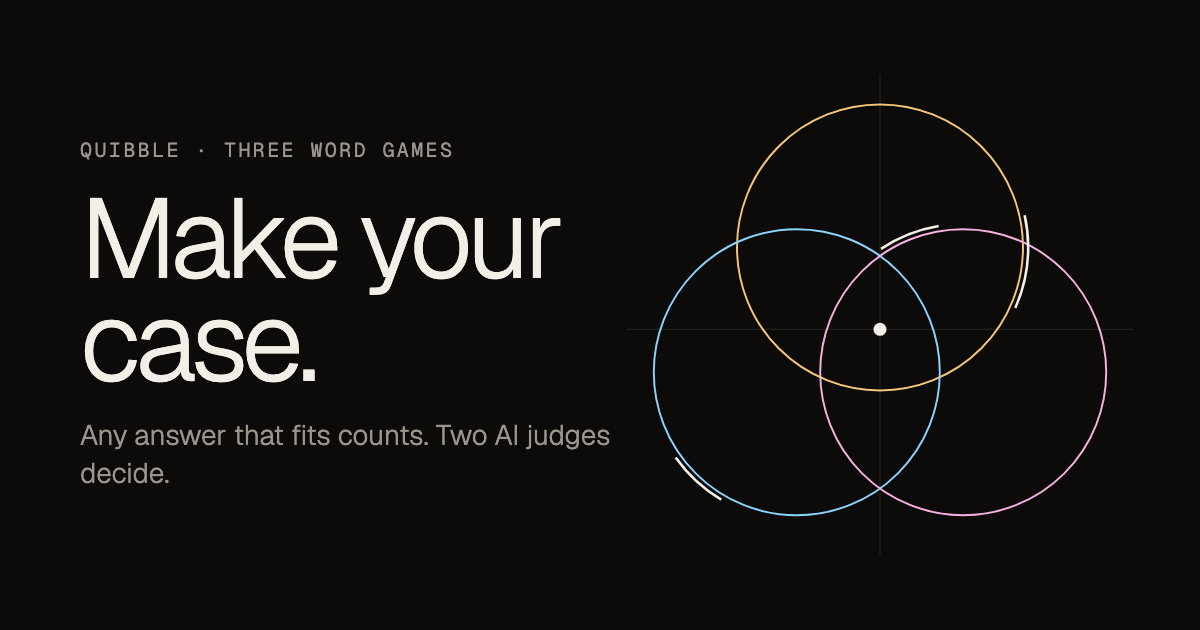
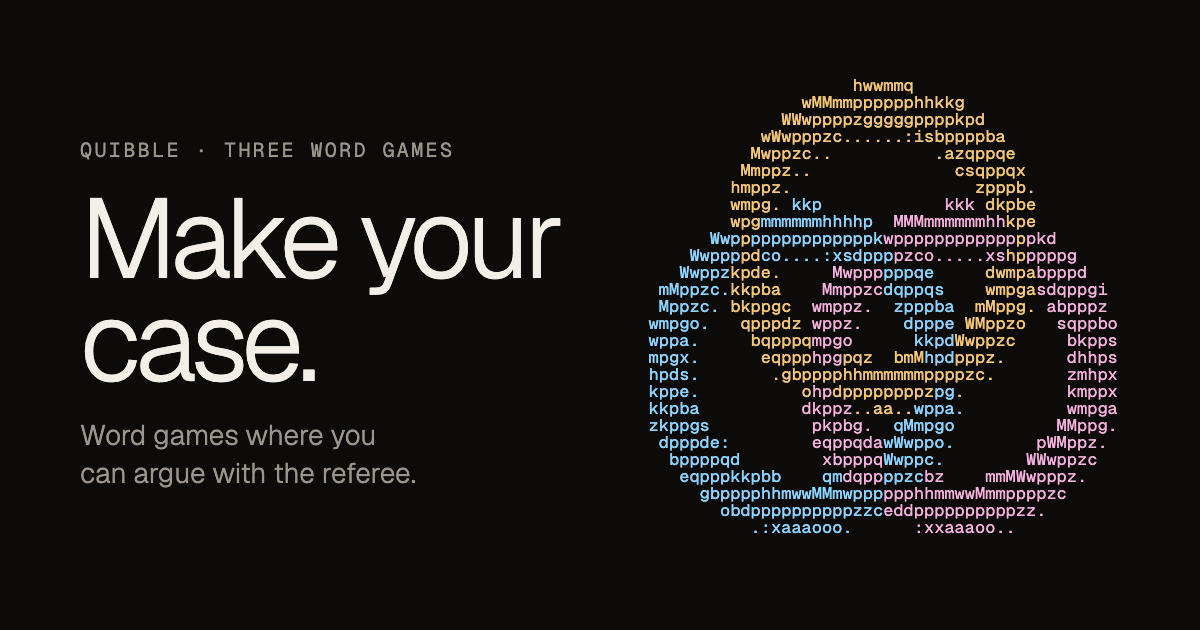
feat(seo): refresh the share image, add JSON-LD and llms.txt (#108)
The share image now shows Home's ring mark in characters, at its still frame, beside "Make your case." and the About lede; its URL carries ?v=2 so platforms that cache previews by URL fetch it again, and its alt text matches. Home and About carry schema.org JSON-LD built from the app's copy (WebSite, the game with its three games, its author, and the About page). The build emits /llms.txt, a short guide for AI tools from the copy, the puzzle index and the published answer-key results. The sitemap stays without lastmod, since no page has a reliable change date.

Changed region(s): [[0.0617, 0.1206, 0.925, 0.8444]]

diff --git a/scripts/vite-plugins.ts b/scripts/vite-plugins.ts
@@ -2,14 +2,18 @@ import { readFileSync } from 'node:fs'
 import { fileURLToPath, URL } from 'node:url'
 import { gzipSync } from 'node:zlib'
 import type { Plugin, Rolldown } from 'vite'
-import { gameIds } from '../shared/games/index.ts'
+import { gameIds, type GameId } from '../shared/games/index.ts'
+import { evalResultsSchema } from '../shared/schemas/eval-results.ts'
 import { puzzleIndexSchema } from '../shared/schemas/puzzle.ts'
 import { SITE_ORIGIN } from '../shared/site.ts'
 import { libraryPath, puzzlePath } from '../src/lib/paths.ts'
 import { en, format, puzzleNumber } from '../src/copy/en.ts'
+import { llmsTxt } from './llms-txt.ts'
+import { aboutStructuredData, homeStructuredData, jsonLdTag } from './structured-data.ts'
 
-// Build plugins for vite.config.ts: the on-device judge's runtime, the sitemap, and
-// one HTML page per route. Each runs in the client build only unless noted.
+// Build plugins for vite.config.ts: the on-device judge's runtime, the sitemap,
+// llms.txt, and one HTML page per route. Each runs in the client build only unless
+// noted.
 
 const fromRoot = (path: string) => fileURLToPath(new URL(`../${path}`, import.meta.url))
 
@@ -53,6 +57,22 @@ export function dropRawOrtRuntime(): Plugin {
   }
 }
 
+// For AI tools (llmstxt.org): what the site is, from the puzzle index and the
+// published answer-key results.
+export function llms(): Plugin {
+  return {
+    name: 'quibble:llms-txt',
+    applyToEnvironment: (environment) => environment.name === 'client',
+    generateBundle() {
+      const counts = Object.fromEntries(
+        gameIds.map((game) => [game, puzzles().filter((puzzle) => puzzle.game === game).length]),
+      ) as Record<GameId, number>
+      const results = evalResultsSchema.parse(JSON.parse(readFileSync(fromRoot('public/eval/results.json'), 'utf8')))
+      this.emitFile({ type: 'asset', fileName: 'llms.txt', source: llmsTxt(counts, results) })
+    },
+  }
+}
+
 // For search engines (robots.txt points here): Home, the Library and every puzzle,
 // listed from the built puzzle index.
 export function sitemap(): Plugin {
@@ -85,6 +105,7 @@ interface RoutePage {
   data?: string
   title: string
   description: string
+  structuredData?: unknown
 }
 
 const escapeHtml = (text: string) =>
@@ -109,6 +130,7 @@ function routePageList(): RoutePage[] {
       scene: 'src/scenes/about/AboutScene.tsx',
       title: en['meta.title.about'],
       description: en['meta.description.about'],
+      structuredData: aboutStructuredData(),
     },
     ...puzzles().map(({ game, n, path }) => {
       const values = { game: en[`game.name.${game}`], n: puzzleNumber(n), tagline: en[`game.tagline.${game}`] }
@@ -150,7 +172,10 @@ export function routePages(): Plugin {
         .map((name) => link(`rel="preload" href="/${name}" as="font" type="font/woff2" crossorigin`))
         .join('')
       const base = String(html.source).replace(/ *<\/head>/u, `${fonts}  </head>`)
-      html.source = base.replace(/ *<\/head>/u, `${link(`rel="canonical" href="${SITE_ORIGIN}/"`)}  </head>`)
+      html.source = base.replace(
+        / *<\/head>/u,
+        `${link(`rel="canonical" href="${SITE_ORIGIN}/"`)}${jsonLdTag(homeStructuredData())}  </head>`,
+      )
       this.emitFile({ type: 'asset', fileName: '404.html', source: base })
 
       for (const page of routePageList()) {
@@ -163,6 +188,7 @@ export function routePages(): Plugin {
           ...css.map((name) => link(`rel="stylesheet" crossorigin href="/${name}"`)),
           ...files.map((name) => link(`rel="modulepreload" crossorigin href="/${name}"`)),
           page.data ? link(`rel="preload" href="${page.data}" as="fetch" crossorigin`) : '',
+          page.structuredData ? jsonLdTag(page.structuredData) : '',
         ].join('')
         const source = base
           .replace(/<title>[^<]*<\/title>/u, `<title>${escapeHtml(page.title)}</title>`)

diff --git a/scripts/social-image.ts b/scripts/social-image.ts
@@ -1,8 +1,12 @@
 // Renders the share image (public/og.png, 1200 × 630) and the favicon
-// (public/favicon.svg) from the ring mark (5.1, 5.3: one mark everywhere).
+// (public/favicon.svg) from the ring mark (5.1, 5.3: one mark everywhere). The share
+// image shows the mark as Home does, in characters at its still frame, beside Home's
+// headline; the favicon keeps the drawn rings, which read at 16px.
 // Usage: npm run ts -- scripts/social-image.ts
 import { readFileSync, writeFileSync } from 'node:fs'
 import { chromium } from '@playwright/test'
+import { asciiMarkFrame, LAYERS } from '../src/components/AsciiMark/frame.ts'
+import { en } from '../src/copy/en.ts'
 
 const font = (path: string) =>
   `data:font/woff2;base64,${readFileSync(`node_modules/@fontsource/${path}`).toString('base64')}`
@@ -21,13 +25,11 @@ const rings = (width: number) => `
   <circle cx="0" cy="-52" r="110" fill="none" stroke="${colors.oddly}" stroke-width="${String(width)}"/>
   <circle cx="-64" cy="44" r="110" fill="none" stroke="${colors.escape}" stroke-width="${String(width)}"/>
   <circle cx="64" cy="44" r="110" fill="none" stroke="${colors.agent}" stroke-width="${String(width)}"/>`
-const mark = `<svg viewBox="-200 -190 400 380" xmlns="http://www.w3.org/2000/svg">
-  <line x1="-195" y1="11" x2="195" y2="11" stroke="${colors.line}"/><line x1="0" y1="-185" x2="0" y2="185" stroke="${colors.line}"/>
-  ${rings(1.5)}
-  <circle cx="0" cy="-52" r="114" fill="none" stroke="${colors.text}" stroke-width="2" stroke-dasharray="48 643"/>
-  <circle cx="-64" cy="44" r="114" fill="none" stroke="${colors.text}" stroke-width="2" stroke-dasharray="48 643" stroke-dashoffset="-240"/>
-  <circle cx="64" cy="44" r="114" fill="none" stroke="${colors.text}" stroke-width="2" stroke-dasharray="48 643" stroke-dashoffset="-470"/>
-  <circle cx="0" cy="11" r="5" fill="${colors.text}"/></svg>`
+// The still frame, one stacked <pre> per ring in its game's colour.
+const ink: Record<(typeof LAYERS)[number], string> = { oddly: colors.oddly, escape: colors.escape, agent: colors.agent }
+const mark = `<div class="mark">${asciiMarkFrame(0)
+  .map((layer, i) => `<pre style="color: ${ink[LAYERS[i] ?? 'oddly']}">${layer}</pre>`)
+  .join('')}</div>`
 
 writeFileSync(
   'public/favicon.svg',
@@ -41,9 +43,10 @@ const html = `<!doctype html><html><head><style>
   .text { flex: 1; padding-left: 80px; }
   .eyebrow { font-family: 'Geist Mono'; font-size: 20px; letter-spacing: 0.12em; text-transform: uppercase; color: ${colors.muted}; }
   h1 { margin: 24px 0; font-size: 112px; font-weight: 300; line-height: 0.92; letter-spacing: -0.05em; }
-  p { margin: 0; font-size: 28px; color: ${colors.muted}; max-width: 560px; line-height: 1.35; }
-  svg { width: 520px; height: 494px; margin-right: 60px; }
-</style></head><body><div class="text"><div class="eyebrow">Quibble · three word games</div><h1>Make your case.</h1><p>Any answer that fits counts. Two AI judges decide.</p></div>${mark}</body></html>`
+  p { margin: 0; font-size: 28px; color: ${colors.muted}; max-width: 560px; line-height: 1.35; text-wrap: balance; }
+  .mark { display: grid; margin-right: 72px; font-family: 'Geist Mono'; font-size: 17px; line-height: 1; }
+  .mark pre { grid-area: 1 / 1; margin: 0; font: inherit; white-space: pre; }
+</style></head><body><div class="text"><div class="eyebrow">${en['app.name']} · three word games</div><h1>${en['home.title']}</h1><p>${en['about.lede']}</p></div>${mark}</body></html>`
 
 const browser = await chromium.launch()
 const page = await browser.newPage({ viewport: { width: 1200, height: 630 } })

diff --git a/tests/unit/tooling/seo.test.ts b/tests/unit/tooling/seo.test.ts
@@ -1,0 +1,49 @@
+import { describe, expect, test } from 'vitest'
+import { readFileSync } from 'node:fs'
+import { gameIds } from '@shared/games'
+import { evalResultsSchema } from '@shared/schemas/eval-results'
+import { SITE_ORIGIN } from '@shared/site'
+import { llmsTxt } from '../../../scripts/llms-txt'
+import { aboutStructuredData, homeStructuredData, jsonLdTag } from '../../../scripts/structured-data'
+
+// The build's guides for search engines and AI tools: llms.txt and JSON-LD.
+
+const results = evalResultsSchema.parse(JSON.parse(readFileSync('public/eval/results.json', 'utf8')))
+const counts = { 'oddly-specific': 100, 'category-escape': 100, 'double-agent': 56 }
+
+describe('llms.txt', () => {
+  const text = llmsTxt(counts, results)
+
+  test('opens with the site name and summary, and links every game and page', () => {
+    expect(text.startsWith('# Quibble\n\n> Word games where you can argue with the referee.')).toBe(true)
+    for (const game of gameIds) expect(text).toContain(`${SITE_ORIGIN}/play?game=${game}`)
+    expect(text).toContain('56 puzzles.')
+    for (const path of ['/', '/play', '/about']) expect(text).toContain(`](${SITE_ORIGIN}${path})`)
+  })
+
+  test('states the published test results', () => {
+    expect(text).toContain(`same sealed test of ${String(results.test.cases)} guesses`)
+    expect(text).toContain(`Gemma 4 ${((results.test.judges['gemma-4']?.wholeGuess.value ?? 0) * 100).toFixed(1)}%`)
+    expect(text).toContain(`target of ${(results.target.wholeGuess * 100).toFixed(1)}%`)
+  })
+})
+
+describe('structured data', () => {
+  test('Home describes the site, the game with its three games, and its author, by shared ids', () => {
+    const graph = homeStructuredData()['@graph']
+    expect(graph.map((node) => node['@type'])).toEqual(['WebSite', 'VideoGame', 'Person'])
+    const game = graph[1] as { hasPart: { name: string }[]; isAccessibleForFree: boolean; '@id': string }
+    expect(game.hasPart.map(({ name }) => name)).toEqual(['Oddly Specific', 'Category Escape', 'Double Agent'])
+    expect(game.isAccessibleForFree).toBe(true)
+    const about = aboutStructuredData()['@graph'][0] as { '@type': string; about: { '@id': string }; url: string }
+    expect(about).toMatchObject({ '@type': 'AboutPage', url: `${SITE_ORIGIN}/about` })
+    expect(about.about['@id']).toBe(game['@id'])
+  })
+
+  test('is a JSON data block that no text inside can close', () => {
+    const tag = jsonLdTag({ name: '</script><b>' })
+    expect(tag).toContain('<script type="application/ld+json">')
+    expect(tag).not.toContain('</script><b>')
+    expect(JSON.parse(/>(.*)<\/script>/u.exec(tag)?.[1] ?? '')).toEqual({ name: '</script><b>' })
+  })
+})

diff --git a/scripts/llms-txt.ts b/scripts/llms-txt.ts
@@ -1,0 +1,50 @@
+import { gameIds, type GameId } from '../shared/games/index.ts'
+import type { EvalResults } from '../shared/schemas/eval-results.ts'
+import { SITE_ORIGIN } from '../shared/site.ts'
+import { libraryPath } from '../src/lib/paths.ts'
+import { en } from '../src/copy/en.ts'
+
+// /llms.txt (llmstxt.org): a short Markdown guide to the site for AI tools, built
+// from the app's copy, the puzzle index and the published answer-key results, so its
+// facts match the pages.
+
+const percent = (value: number | undefined) => `${((value ?? 0) * 100).toFixed(1)}%`
+
+export function llmsTxt(counts: Record<GameId, number>, results: EvalResults): string {
+  const { judges, cases } = results.test
+  const games = gameIds
+    .map(
+      (game) =>
+        `- [${en[`game.name.${game}`]}](${SITE_ORIGIN}${libraryPath(game)}): ${en[`game.tagline.${game}`]} ${String(counts[game])} puzzles.`,
+    )
+    .join('\n')
+  return `# ${en['app.name']}
+
+> ${en['about.lede']} Any answer that fits the rules counts: AI judges decide each guess, and players can overrule them.
+
+${en['app.name']} is three free web games by Ronald Balutiu: no accounts, no ads, nothing to install. Progress stays in the player's browser.
+
+## Games
+
+${games}
+
+## How judging works
+
+- Each guess is checked rule by rule. The cloud judge is Clef-flash by default, or Gemma 4, both on Cloudflare Workers AI.
+- An optional local judge, Qwen3.5-0.8B, runs in the player's browser on WebGPU and checks the same guess.
+- A player who thinks a judge got it wrong can choose "Count it anyway" and keep the try. With both judges on, the site keeps a private tally of where they split and which one the player overrules.
+
+## How the judges were tested
+
+- Before launch, every judge ruled on the same sealed test of ${String(cases)} guesses from all three games, each with a known right answer. It ran once, on the final setup, after tuning on a separate practice set.
+- Right calls on whole guesses: Gemma 4 ${percent(judges['gemma-4']?.wholeGuess.value)}, Clef-flash ${percent(judges['clef-flash']?.wholeGuess.value)}, Qwen3.5-0.8B ${percent(judges.device?.wholeGuess.value)}, against a target of ${percent(results.target.wholeGuess)}.
+- Every judge leans strict: each turned down good answers more often than it let wrong ones through.
+
+## Pages
+
+- [Home](${SITE_ORIGIN}/): the three games, how scoring works, and how the judges compare.
+- [Library](${SITE_ORIGIN}${libraryPath()}): every puzzle, easy to hard.
+- [About](${SITE_ORIGIN}/about): how to play, how the judges were tested, how the puzzles were made, and privacy.
+- [Source code](https://github.com/ronald-balutiu/Quibble)
+`
+}

diff --git a/scripts/structured-data.ts b/scripts/structured-data.ts
@@ -1,0 +1,82 @@
+import { gameIds } from '../shared/games/index.ts'
+import { SITE_ORIGIN } from '../shared/site.ts'
+import { libraryPath } from '../src/lib/paths.ts'
+import { en } from '../src/copy/en.ts'
+
+// schema.org JSON-LD for search engines and AI answers: on Home, the site, the game
+// (with its three games as parts) and its author; on About, the page about it. Built
+// from the app's copy, so it says what the pages say. One @graph per page, with ids
+// shared, so each page describes the same game and the same person.
+
+const id = (name: string) => `${SITE_ORIGIN}/#${name}`
+const author = {
+  '@type': 'Person',
+  '@id': id('author'),
+  name: 'Ronald Balutiu',
+  sameAs: ['https://github.com/ronald-balutiu'],
+}
+
+const game = {
+  '@type': 'VideoGame',
+  '@id': id('game'),
+  name: en['app.name'],
+  url: `${SITE_ORIGIN}/`,
+  description: `${en['about.lede']} ${en['welcome.lede']}`,
+  genre: ['Word game', 'Puzzle game'],
+  gamePlatform: 'Web browser',
+  applicationCategory: 'GameApplication',
+  operatingSystem: 'Any',
+  inLanguage: 'en',
+  isAccessibleForFree: true,
+  offers: { '@type': 'Offer', price: '0', priceCurrency: 'USD' },
+  author: { '@id': id('author') },
+  hasPart: gameIds.map((game) => ({
+    '@type': 'VideoGame',
+    name: en[`game.name.${game}`],
+    description: en[`game.tagline.${game}`],
+    url: `${SITE_ORIGIN}${libraryPath(game)}`,
+  })),
+}
+
+export function homeStructuredData() {
+  return {
+    '@context': 'https://schema.org',
+    '@graph': [
+      {
+        '@type': 'WebSite',
+        '@id': id('website'),
+        url: `${SITE_ORIGIN}/`,
+        name: en['app.name'],
+        description: en['meta.title.home'],
+        inLanguage: 'en',
+        author: { '@id': id('author') },
+      },
+      game,
+      author,
+    ],
+  }
+}
+
+export function aboutStructuredData() {
+  return {
+    '@context': 'https://schema.org',
+    '@graph': [
+      {
+        '@type': 'AboutPage',
+        url: `${SITE_ORIGIN}/about`,
+        name: en['about.title'],
+        description: en['meta.description.about'],
+        inLanguage: 'en',
+        isPartOf: { '@id': id('website') },
+        about: { '@id': id('game') },
+        author: { '@id': id('author') },
+      },
+      game,
+      author,
+    ],
+  }
+}
+
+// A data block, not a script: JSON with `<` escaped, so no text inside can close it.
+export const jsonLdTag = (data: unknown) =>
+  `    <script type="application/ld+json">${JSON.stringify(data).replace(/</gu, '\\u003c')}</script>\n`

diff --git a/index.html b/index.html
@@ -7,16 +7,17 @@
     <meta name="description" content="Quibble: three word games where any answer that fits counts. Name one thing that fits three conditions, stay in a category as the exits close, or find one word with two meanings. AI judges in the cloud and on your device decide." />
     <title>Quibble · Three word games judged by AI</title>
     <link rel="icon" href="/favicon.svg" type="image/svg+xml" />
-    <!-- Link previews (Phase 6); the image comes from scripts/social-image.ts. -->
+    <!-- Link previews (Phase 6); the image comes from scripts/social-image.ts. Bump
+         ?v when it changes, so platforms that cache previews by URL fetch it again. -->
     <meta property="og:type" content="website" />
     <meta property="og:site_name" content="Quibble" />
     <meta property="og:title" content="Quibble · Make your case." />
     <meta property="og:description" content="Three word games where any answer that fits counts. AI judges in the cloud and on your device decide, and you can overrule them." />
     <meta property="og:url" content="https://quibble.ronaldbalutiu.com/" />
-    <meta property="og:image" content="https://quibble.ronaldbalutiu.com/og.png" />
+    <meta property="og:image" content="https://quibble.ronaldbalutiu.com/og.png?v=2" />
     <meta property="og:image:width" content="1200" />
     <meta property="og:image:height" content="630" />
-    <meta property="og:image:alt" content="Make your case. Three intersecting rings in honey, sky and orchid." />
+    <meta property="og:image:alt" content="Make your case. Word games where you can argue with the referee, beside three overlapping rings drawn in letters in honey, sky and orchid." />
     <meta name="twitter:card" content="summary_large_image" />
   </head>
   <body>

diff --git a/vite.config.ts b/vite.config.ts
@@ -2,7 +2,7 @@ import { fileURLToPath, URL } from 'node:url'
 import { cloudflare } from '@cloudflare/vite-plugin'
 import react from '@vitejs/plugin-react'
 import { defineConfig } from 'vite'
-import { dropRawOrtRuntime, ortRuntime, routePages, sitemap } from './scripts/vite-plugins.ts'
+import { dropRawOrtRuntime, llms, ortRuntime, routePages, sitemap } from './scripts/vite-plugins.ts'
 
 export default defineConfig({
   // Browser tests mock every model call, so their preview server runs without remote
@@ -15,6 +15,7 @@ export default defineConfig({
     }),
     ortRuntime(),
     sitemap(),
+    llms(),
     routePages(),
   ],
   resolve: {

diff --git a/docs/architecture.md b/docs/architecture.md
@@ -328,7 +328,13 @@ legible-font audit; on Home it carries `mark.label` as an image.
 For search engines, `public/robots.txt` points to `/sitemap.xml`, also built from the
 puzzle index (Home, the Library, About and every puzzle). Scenes keep their title and
 canonical URL current during client navigation through `src/app/use-page-meta.ts`,
-and the not-found scene asks not to be indexed.
+and the not-found scene asks not to be indexed. Home and About carry schema.org
+JSON-LD (`scripts/structured-data.ts`): the site, the game with its three games, its
+author, and the About page, sharing ids. `/llms.txt` (`scripts/llms-txt.ts`) is a
+short Markdown guide for AI tools, built from the copy, the puzzle index and
+`public/eval/results.json`. The sitemap has no `lastmod`: no page has a reliable
+change date, and search engines ignore dates that aren't accurate. The share image's
+URL carries `?v=n`, bumped when `scripts/social-image.ts` redraws it.
 
 `public/_headers` sets the content security policy on every page and static asset,
 including the on-device judge's worker script, which takes its policy from its own

diff --git a/CONTRIBUTING.md b/CONTRIBUTING.md
@@ -16,7 +16,7 @@ configuration, and the Git and pull request workflow.
 | `npm run ts -- path/to/script.ts` | Run a Node TypeScript script through `tsx`, with `@shared/*` aliases resolved. |
 | `npm run eval -- --judge <names> --note "<what changed>"` | Score judges on the answer-key development set and append the run to `eval/history.json`. Cloud judges spend Workers AI allowance. |
 | `npm run eval:publish` | Rebuild `public/eval/results.json` (the app's answer-key numbers) from `eval/history.json` and `eval/device-measurements.json`. Calls no models. |
-| `npm run ts -- scripts/social-image.ts` | Re-render the share image (`public/og.png`) and favicon from the ring mark. |
+| `npm run ts -- scripts/social-image.ts` | Re-render the share image (`public/og.png`, the ring mark in characters beside Home's headline) and the favicon (the drawn rings). |
 | `npm run lint` | Check formatting, then run ESLint and Stylelint. |
 | `npm run lint:js` | Run ESLint only. |
 | `npm run lint:css` | Run Stylelint only. |
